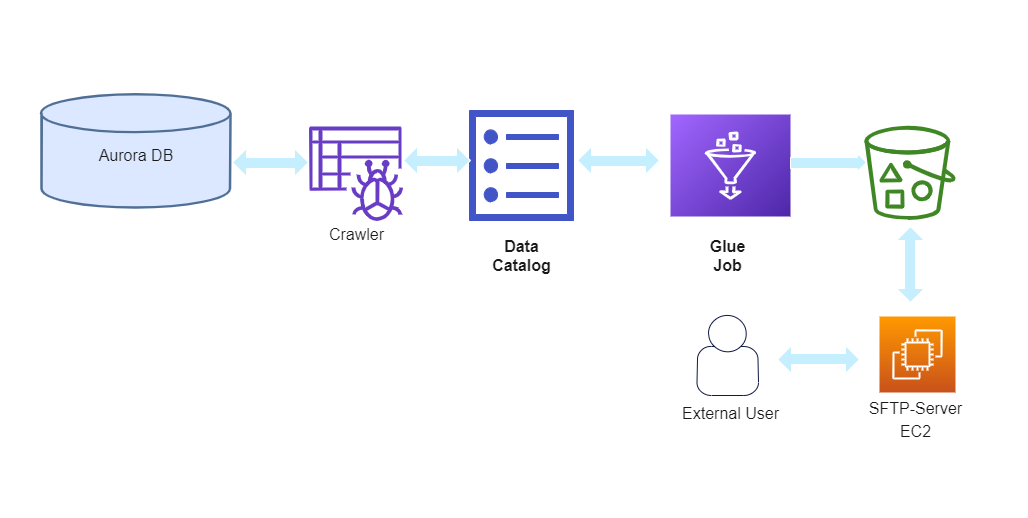
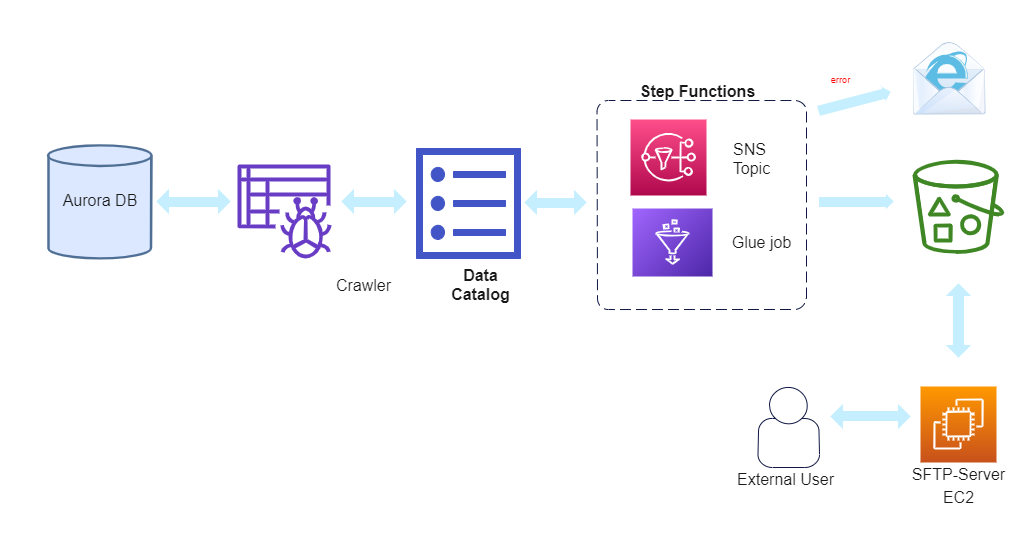
update documentation and sanitize scripts

Changed region(s): [[0.0312, 0.0927, 0.9971, 0.8958], [0.6855, 0.6486, 0.7478, 0.6795], [0.3116, 0.4942, 0.3739, 0.5251]]

diff --git a/Glue/etl.py b/Glue/etl.py
@@ -16,12 +16,11 @@ glueContext = GlueContext(sc)
 spark = glueContext.spark_session
 job = Job(glueContext)
 # Create source DynamicFrames from the Glue Data Catalog tables
-src_loan = glueContext.create_dynamic_frame.from_catalog(database = "aurora", table_name = "finance_public_loans", transformation_ctx = "src_loan")
-src_account = glueContext.create_dynamic_frame.from_catalog(database = "aurora", table_name = "finance_public_account", transformation_ctx = "src_account")
-src_client = glueContext.create_dynamic_frame.from_catalog(database = "aurora", table_name = "finance_public_client", transformation_ctx = "src_client")
-src_branch = glueContext.create_dynamic_frame.from_catalog(database = "aurora", table_name = "finance_public_branch", transformation_ctx = "src_branch")
-src_bank =  glueContext.create_dynamic_frame.from_catalog(database = "aurora", table_name = "finance_public_bank", transformation_ctx = "src_bank")
-
+src_loan = glueContext.create_dynamic_frame.from_catalog(database = "banking_group", table_name = "finance_public_loans", transformation_ctx = "src_loan")
+src_account = glueContext.create_dynamic_frame.from_catalog(database = "banking_group", table_name = "finance_public_account", transformation_ctx = "src_account")
+src_client = glueContext.create_dynamic_frame.from_catalog(database = "banking_group", table_name = "finance_public_client", transformation_ctx = "src_client")
+src_branch = glueContext.create_dynamic_frame.from_catalog(database = "banking_group", table_name = "finance_public_branch", transformation_ctx = "src_branch")
+src_bank =  glueContext.create_dynamic_frame.from_catalog(database = "banking_group", table_name = "finance_public_bank", transformation_ctx = "src_bank")
 
 # Join the Bank and Branch
 bank_branch = src_bank.join(paths1=["idBank"], paths2=["Bank_idBank"], frame2=src_branch)
@@ -40,8 +39,6 @@ fn_bank_loans = bank_loans.apply_mapping(
         ("loan_date", "Date", "loan_date", "Date"),
     ]
 )
-fn_bank_loans.printSchema()
-fn_bank_loans.count()
 # Calculate the moving average using spark sql
 SqlQuery = """
 select BankName, idBranch, year, month, 
@@ -59,19 +56,18 @@ from
 """
 fn_bank_loans.toDF().createOrReplaceTempView('myDataSource')
 results = spark.sql(SqlQuery)
-#results.count()
-#results.printSchema()
 ## Write Spark Dataframe results to S3
 results.count()
 results.write.format('csv') \
+             .option("header",True) \
              .mode("append") \
              .partitionBy("BankName", "year", "month") \
-             .save(path="s3://aws-edokemwa-csv/test-data/")
+             .save(path="s3://my-edokemwa-tf-test-bucket/")
 
 # Loop through dest to merge and rename file
-bucket = 'aws-edokemwa-csv'
+bucket = 'my-edokemwa-tf-test-bucket'
 for row in results.select("BankName", "year", "month").distinct().collect():
-    path_to_concat = 'test-data/BankName='+row['BankName']+'/year='+row['year']+'/month='+row['month']+'/'
+    path_to_concat = 'BankName='+row['BankName']+'/year='+row['year']+'/month='+row['month']+'/'
     concatenated_file = path_to_concat+row['BankName']+'_'+row['year']+row['month']+'01.csv'
     min_file_size = None
     # Init the concat_job

diff --git a/Documentation.md b/Documentation.md
@@ -1,0 +1,12 @@
+# Solution Overview
+
+- The Glue crawler connects to the Aurora Database and creates external tables in the Glue Data Catalog.
+- Glue Job joins the tables to create the final Dataframe
+- Final Dataframe is written to S3. Data is partitioned by bank name, year and month.
+- Using s3-concat library, the S3 files are combined into a single file and the correct naming is applied.
+- Step function is used to schedule and orchestrate the Glue Job. 
+
+Architecture :
+
+![](architecture.png)
+
